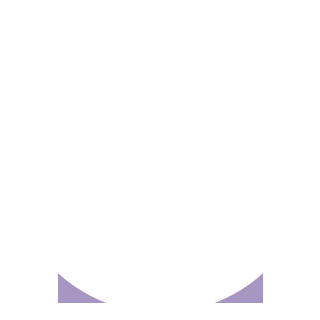
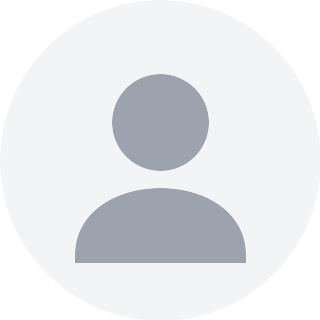
updated

diff --git a/resources/views/account/profile.blade.php b/resources/views/account/profile.blade.php
@@ -6,7 +6,7 @@
     @php
         $profilePhotoUrl = $user->profile_photo_path
             ? \Illuminate\Support\Facades\Storage::disk('public')->url($user->profile_photo_path)
-            : asset('images/demo-profile.svg');
+            : asset('images/demo-profile.svg').'?v=2';
     @endphp
     <div class="mx-auto max-w-6xl px-4 py-8 sm:px-6 lg:px-8">
         <div>

diff --git a/resources/views/components/demo-profile-image.blade.php b/resources/views/components/demo-profile-image.blade.php
@@ -3,7 +3,7 @@
 @php
     $profileImage = $user?->profile_photo_path
         ? \Illuminate\Support\Facades\Storage::disk('public')->url($user->profile_photo_path)
-        : asset('images/demo-profile.svg');
+        : asset('images/demo-profile.svg').'?v=2';
 @endphp
 
 <span {{ $attributes->merge(['class' => 'block overflow-hidden rounded-full bg-white']) }}>
